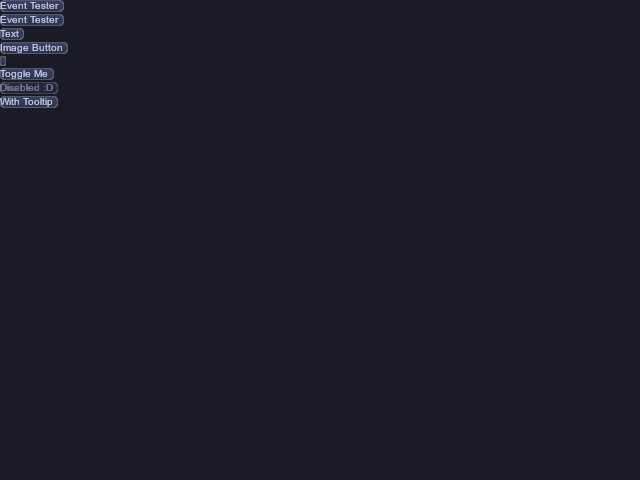
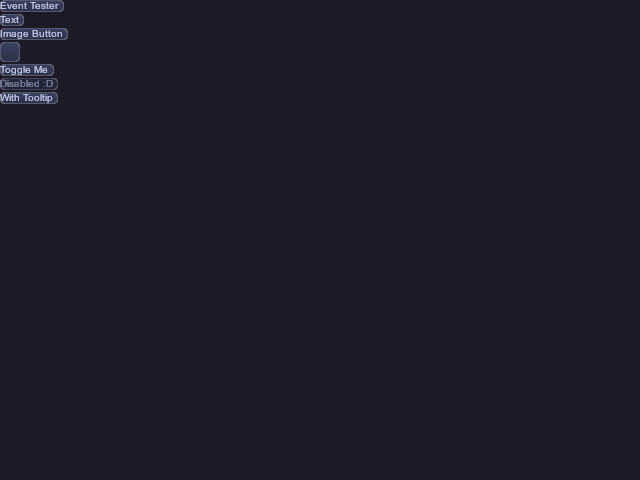
ButtonDemo: the 20x20 button is Fixed; drop the duplicate Event Tester
Inside a layout Shrink cuts a button to its content, so the empty-text
button was a 7x10 sliver: Fixed is how a child asks for an exact size.
The second "Event Tester" (a shadowed buttonA with setBounds, whose
position a layout ignores) was a leftover. Regenerate the sample.

Changed region(s): [[0.0, 0.0312, 0.125, 0.25]]

diff --git a/examples/demo/button.cpp b/examples/demo/button.cpp
@@ -23,12 +23,6 @@ GWENI_CONTROL_CONSTRUCTOR(ButtonDemo)
     controls::Button *buttonA=newChild<controls::Button>("ButtonA");
     buttonA->setText("Event Tester");
     buttonA->onPressCaller.add(this, &ButtonDemo::onButtonA);
-    {
-        controls::Button *buttonA=newChild<controls::Button>();
-        buttonA->setBounds(200, 30, 300, 200);
-        buttonA->setText("Event Tester");
-        buttonA->onPressCaller.add(this, &ButtonDemo::onButtonA);
-    }
     // Unicode test
     controls::Button *buttonB=newChild<controls::Button>();
     buttonB->setText("Text");
@@ -42,6 +36,7 @@ GWENI_CONTROL_CONSTRUCTOR(ButtonDemo)
     controls::Button *buttonD=newChild<controls::Button>();
     buttonD->setText("");
 //    buttonD->setImage("test16.png");
+    buttonD->setSizeFlags({SizeFlag::Fixed, SizeFlag::Fixed});
     buttonD->setSize(20, 20);
     //align::placeBelow(buttonD, buttonC, 10);
     // Toggle button
